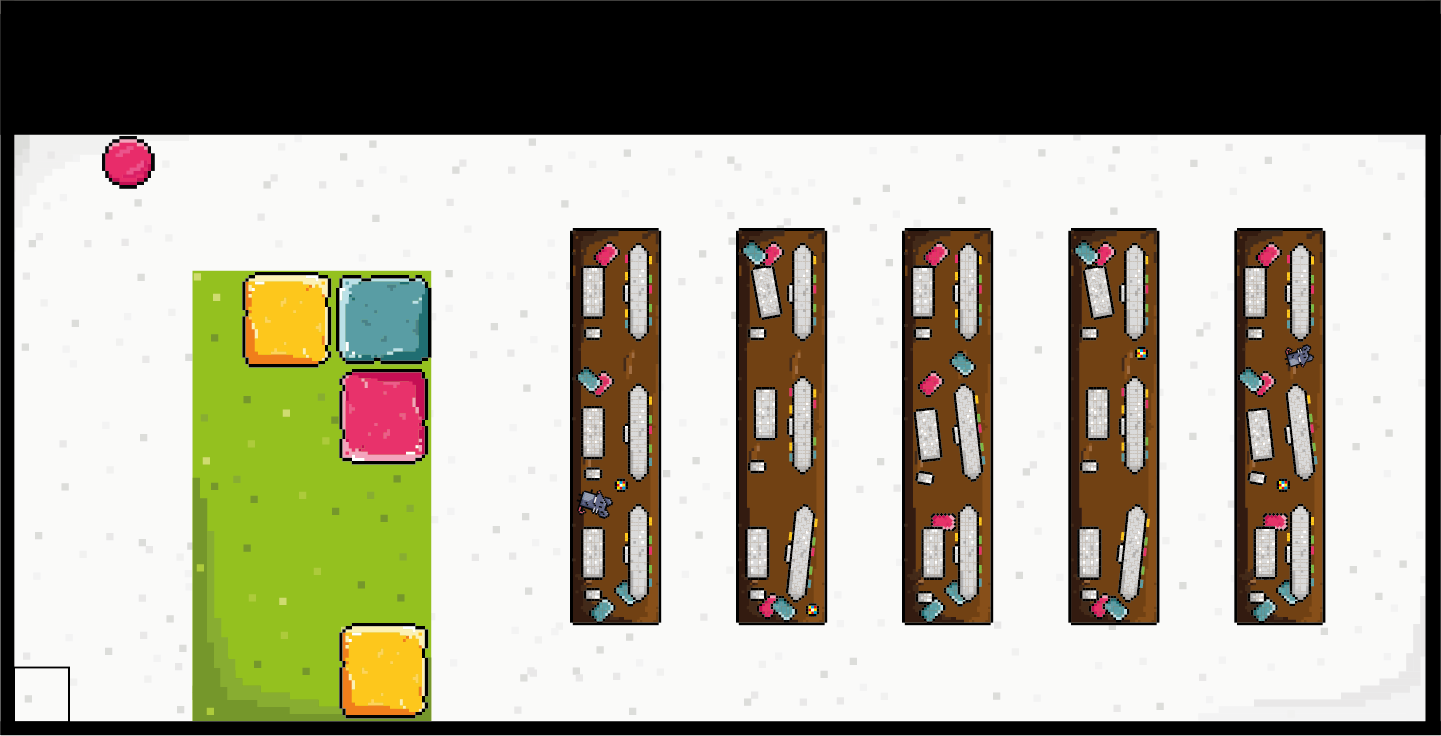
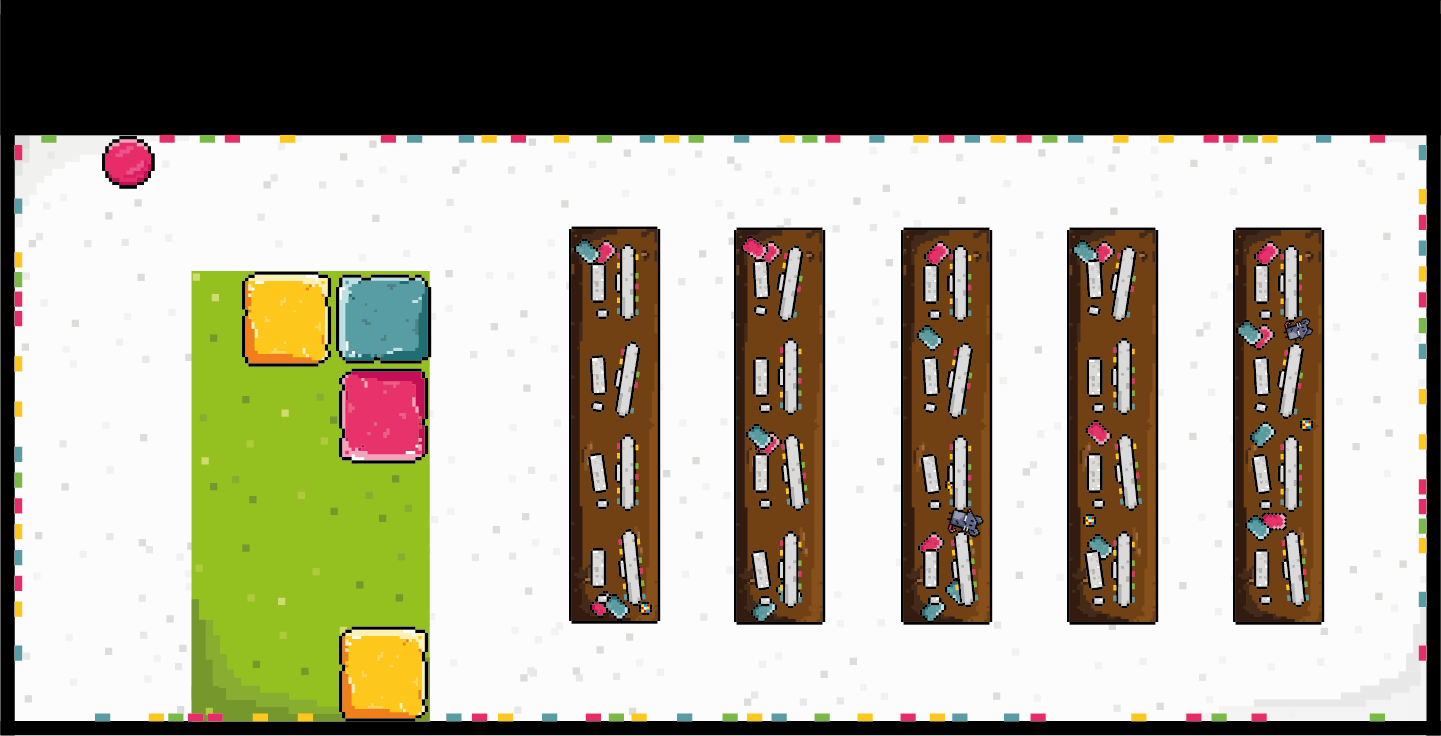
its working 🥳

diff --git a/ProjectFolder/src/org/academiadecodigo/bootcamp/project/game/Game.java b/ProjectFolder/src/org/academiadecodigo/bootcamp/project/game/Game.java
@@ -1,0 +1,73 @@
+package org.academiadecodigo.bootcamp.project.game;
+
+import org.academiadecodigo.bootcamp.project.characters.*;
+import org.academiadecodigo.bootcamp.project.map.Base;
+import org.academiadecodigo.bootcamp.project.map.Map;
+
+public class Game {
+    public static boolean isRunning = false;
+
+    public static void main(String[] args) throws InterruptedException {
+        Map map = new Base();
+        isRunning = true;
+        int random = Randomizer.getRandomRange(0, 3);
+        Characters player;
+        Game game = new Game();
+        Score score = new Score();
+
+        switch (random){
+            case 0:
+                player = new Rodrigo42(map);
+                break;
+            case 2:
+                player = new Mike42(map);
+                break;
+            default:
+                player = new Teresa42(map);
+        }
+        AcademiaDeCodigo[] academiaDeCodigo= new AcademiaDeCodigo[10];
+        academiaDeCodigo[0] = new Gabi(map);
+        academiaDeCodigo[1] = new Bri(map);
+        academiaDeCodigo[2] = new Gee(map);
+        academiaDeCodigo[3] = new Fanuca(map);
+        academiaDeCodigo[4] = new Cat(map);
+        academiaDeCodigo[5] = new Miguel(map);
+        academiaDeCodigo[6] = new Zuca(map);
+        academiaDeCodigo[7] = new Diogo(map);
+        academiaDeCodigo[8] = new Pedro(map);
+        academiaDeCodigo[9] = new Mariana(map);
+
+        for (AcademiaDeCodigo character: academiaDeCodigo) {
+            character.move();
+        }
+
+        while (isRunning){
+            System.out.println(game.isTouchingAc(academiaDeCodigo, player));
+            if (game.isTouchingAc(academiaDeCodigo, player)){
+                Game.isRunning = false;
+                score.save();
+            }
+        }
+
+    }
+
+    public boolean isTouchingAc(AcademiaDeCodigo[] characters, Characters player){
+        for(AcademiaDeCodigo character : characters){
+            int lx_c = character.getPic().getX();
+            int rx_c = character.getPic().getMaxX();
+            int ty_c = character.getPic().getY();
+            int by_c = character.getPic().getMaxY();
+            int lx_p = player.getPic().getX();
+            int rx_p = player.getPic().getMaxX();
+            int ty_p = player.getPic().getY();
+            int by_p = player.getPic().getMaxY();
+
+            if((rx_p > lx_c && rx_p < rx_c && (ty_p > ty_c && ty_p < by_c || by_p > ty_c && by_p < by_c)) ||
+                    (lx_p < rx_c && lx_p > lx_c && (ty_p > ty_c && ty_p < by_c || by_p > ty_c && by_p < by_c))){
+                return true;
+            }
+
+        }
+        return false;
+    }
+}

diff --git a/ProjectFolder/src/org/academiadecodigo/bootcamp/project/game/Score.java b/ProjectFolder/src/org/academiadecodigo/bootcamp/project/game/Score.java
@@ -1,0 +1,72 @@
+package org.academiadecodigo.bootcamp.project.game;
+
+import org.academiadecodigo.simplegraphics.graphics.Color;
+import org.academiadecodigo.simplegraphics.graphics.Text;
+
+import java.io.*;
+
+public class Score {
+
+    private String highScore;
+
+    private int score;
+
+    private BufferedReader br;
+
+    private BufferedWriter bw;
+
+    private FileReader in;
+
+    private Text text;
+
+    private Text text2;
+
+    public Score() {
+        score = 1;
+        text2 = new Text(400, 50, String.valueOf(score));
+        text2.setColor(Color.WHITE);
+        text2.grow(8, 8);
+        text2.draw();
+        try {
+            in = new FileReader("./resources/high_score.txt");
+            br = new BufferedReader(in);
+            read();
+        } catch (IOException e) {
+            throw new RuntimeException(e);
+        }
+        Thread thread = new Thread(() -> {
+            while (Game.isRunning) {
+                score++;
+                text2.setText(String.valueOf(score));
+                text2.draw();
+                try {
+                    Thread.sleep(500);
+                } catch (InterruptedException e) {
+                    throw new RuntimeException(e);
+                }
+            }
+        });
+        thread.start();
+    }
+
+    public void save() {
+        if (score <= Integer.parseInt(highScore)){
+            return;
+        }
+        try {
+            bw  = new BufferedWriter(new FileWriter("./resources/high_score.txt"));
+            bw.write(String.valueOf(score));
+            bw.close();
+        } catch (IOException e) {
+            throw new RuntimeException(e);
+        }
+    }
+
+    private void read() throws IOException {
+        highScore = br.readLine();
+        text = new Text(720, 50, "HighScore: " + highScore);
+        text.setColor(Color.WHITE);
+        text.draw();
+        text.grow(50, 20);
+    }
+}

diff --git a/ProjectFolder/src/org/academiadecodigo/bootcamp/project/characters/QuarentaEDois.java b/ProjectFolder/src/org/academiadecodigo/bootcamp/project/characters/QuarentaEDois.java
@@ -1,6 +1,7 @@
 package org.academiadecodigo.bootcamp.project.characters;
 
 import org.academiadecodigo.bootcamp.project.directions.MoveDirections;
+import org.academiadecodigo.bootcamp.project.game.Game;
 import org.academiadecodigo.bootcamp.project.map.Map;
 import org.academiadecodigo.simplegraphics.keyboard.Keyboard;
 import org.academiadecodigo.simplegraphics.keyboard.KeyboardEvent;
@@ -11,8 +12,8 @@ import org.academiadecodigo.simplegraphics.pictures.Picture;
 abstract public class QuarentaEDois extends Characters implements KeyboardHandler {
 
     private Keyboard keyboard;
-    public QuarentaEDois(String pathLeft, String pathRight, Picture pic, int speed, Map level, boolean isAc) {
-        super(pathLeft, pathRight, pic, speed, level, isAc);
+    public QuarentaEDois(String pathLeft, String pathRight, Picture pic, int speed, Map level) {
+        super(pathLeft, pathRight, pic, speed, level);
         this.keyboard = new Keyboard(this);
         initKeyboard();
     }
@@ -41,13 +42,13 @@ abstract public class QuarentaEDois extends Characters implements KeyboardHandle
     }
 
     private void move(KeyboardEvent keyboardEvent) {
-        if (keyboardEvent.getKey() == KeyboardEvent.KEY_RIGHT){
+        if (keyboardEvent.getKey() == KeyboardEvent.KEY_RIGHT && Game.isRunning){
             move(MoveDirections.RIGHT);
-        } else if (keyboardEvent.getKey() == KeyboardEvent.KEY_LEFT) {
+        } else if (keyboardEvent.getKey() == KeyboardEvent.KEY_LEFT && Game.isRunning) {
             move(MoveDirections.LEFT);
-        } else if (keyboardEvent.getKey() == KeyboardEvent.KEY_UP) {
+        } else if (keyboardEvent.getKey() == KeyboardEvent.KEY_UP && Game.isRunning) {
             move(MoveDirections.UP);
-        } else {
+        } else if (keyboardEvent.getKey() == KeyboardEvent.KEY_DOWN && Game.isRunning) {
             move(MoveDirections.DOWN);
         }
     }

diff --git a/ProjectFolder/src/org/academiadecodigo/bootcamp/project/characters/AcademiaDeCodigo.java b/ProjectFolder/src/org/academiadecodigo/bootcamp/project/characters/AcademiaDeCodigo.java
@@ -1,19 +1,20 @@
 package org.academiadecodigo.bootcamp.project.characters;
 
+import org.academiadecodigo.bootcamp.project.game.Game;
 import org.academiadecodigo.bootcamp.project.game.Randomizer;
 import org.academiadecodigo.bootcamp.project.map.Map;
 import org.academiadecodigo.simplegraphics.pictures.Picture;
 
 public class AcademiaDeCodigo extends Characters {
 
-    public AcademiaDeCodigo(String pathLeft, String pathRight, Picture pic, int speed, Map level, boolean isAc) throws InterruptedException {
-        super(pathLeft, pathRight, pic, speed, level, isAc);
+    public AcademiaDeCodigo(String pathLeft, String pathRight, Picture pic, int speed, Map level) throws InterruptedException {
+        super(pathLeft, pathRight, pic, speed, level);
     }
 
     public void move() {
 
         Thread tr = new Thread(() -> {
-            while (true){
+            while (Game.isRunning){
                 int random = Randomizer.getRandomRange(1, 40);
                 if(random > 0 && random < 11){
                     while(Randomizer.getRandomRange(1, 10) < 8){

diff --git a/ProjectFolder/src/org/academiadecodigo/bootcamp/project/characters/Characters.java b/ProjectFolder/src/org/academiadecodigo/bootcamp/project/characters/Characters.java
@@ -14,18 +14,15 @@ abstract public class Characters {
     private int speed;
     private Map level;
 
-    private boolean isAc;
+    //private Tables tables;
 
-    private Tables tables;
-
-    public Characters(String pathLeft, String pathRight, Picture pic, int speed, Map level, boolean isAc){
+    public Characters(String pathLeft, String pathRight, Picture pic, int speed, Map level){
         this.pathLeft = pathLeft;
         this.pathRight = pathRight;
         this.pic = pic;
         this.level = level;
         this.speed = speed;
         //this.tables = new Tables();
-        this.isAc = isAc;
         pic.draw();
     }
 

diff --git a/ProjectFolder/src/org/academiadecodigo/bootcamp/project/characters/Mariana.java b/ProjectFolder/src/org/academiadecodigo/bootcamp/project/characters/Mariana.java
@@ -8,6 +8,6 @@ public class Mariana extends AcademiaDeCodigo {
     public Mariana(Map level) throws InterruptedException {
         super("./pics/characters/marianaLeft.png", "./pics/characters/marianaRight.png",
                 new Picture(Randomizer.getRandomRange(14, 1426), Randomizer.getRandomRange(135, level.getBackground().getHeight() - 14),
-                        "./pics/characters/marianaRight.png"), 20, level, true);
+                        "./pics/characters/marianaRight.png"), 20, level);
     }
 }

diff --git a/ProjectFolder/src/org/academiadecodigo/bootcamp/project/characters/Rodrigo.java b/ProjectFolder/src/org/academiadecodigo/bootcamp/project/characters/Rodrigo.java
@@ -8,6 +8,6 @@ public class Rodrigo extends AcademiaDeCodigo {
     public Rodrigo(Map level) throws InterruptedException {
         super("./pics/characters/rodrigoLeft.png", "./pics/characters/rodrigoRight.png",
                 new Picture(Randomizer.getRandomRange(14, 1426), Randomizer.getRandomRange(135, level.getBackground().getHeight() - 14),
-                        "./pics/characters/rodrigoRight.png"), 20, level, true);
+                        "./pics/characters/rodrigoRight.png"), 20, level);
     }
 }

diff --git a/ProjectFolder/src/org/academiadecodigo/bootcamp/project/characters/Fanuca.java b/ProjectFolder/src/org/academiadecodigo/bootcamp/project/characters/Fanuca.java
@@ -8,6 +8,6 @@ public class Fanuca extends AcademiaDeCodigo {
     public Fanuca (Map level) throws InterruptedException {
         super("./pics/characters/fanucaLeft.png", "./pics/characters/fanucaRight.png",
                 new Picture(Randomizer.getRandomRange(14, 1426), Randomizer.getRandomRange(135, level.getBackground().getHeight() - 14),
-                        "./pics/characters/fanucaRight.png"), 20, level, true);
+                        "./pics/characters/fanucaRight.png"), 20, level);
     }
 }

diff --git a/ProjectFolder/src/org/academiadecodigo/bootcamp/project/characters/Miguel.java b/ProjectFolder/src/org/academiadecodigo/bootcamp/project/characters/Miguel.java
@@ -8,6 +8,6 @@ public class Miguel extends AcademiaDeCodigo{
     public Miguel(Map level) throws InterruptedException {
         super("./pics/characters/miguelLeft.png", "./pics/characters/miguelRight.png",
                 new Picture(Randomizer.getRandomRange(14, 1426), Randomizer.getRandomRange(135, level.getBackground().getHeight() - 14),
-                        "./pics/characters/miguelRight.png"), 20, level, true);
+                        "./pics/characters/miguelRight.png"), 20, level);
     }
 }

diff --git a/ProjectFolder/src/org/academiadecodigo/bootcamp/project/characters/Pedro.java b/ProjectFolder/src/org/academiadecodigo/bootcamp/project/characters/Pedro.java
@@ -8,6 +8,6 @@ public class Pedro extends AcademiaDeCodigo {
     public Pedro (Map level) throws InterruptedException {
         super("./pics/characters/pedroLeft.png", "./pics/characters/pedroRight.png",
                 new Picture(Randomizer.getRandomRange(14, 1426), Randomizer.getRandomRange(135, level.getBackground().getHeight() - 14),
-                        "./pics/characters/pedroRight.png"), 20, level, true);
+                        "./pics/characters/pedroRight.png"), 20, level);
     }
 }

diff --git a/ProjectFolder/src/org/academiadecodigo/bootcamp/project/characters/Diogo.java b/ProjectFolder/src/org/academiadecodigo/bootcamp/project/characters/Diogo.java
@@ -8,6 +8,6 @@ public class Diogo extends AcademiaDeCodigo{
     public Diogo(Map level) throws InterruptedException {
         super("./pics/characters/diogoLeft.png", "./pics/characters/diogoRight.png",
                 new Picture(Randomizer.getRandomRange(14, 1426), Randomizer.getRandomRange(135, level.getBackground().getHeight() - 14),
-                        "./pics/characters/diogoRight.png"), 20, level, true);
+                        "./pics/characters/diogoRight.png"), 20, level);
     }
 }

diff --git a/ProjectFolder/src/org/academiadecodigo/bootcamp/project/characters/Gabi.java b/ProjectFolder/src/org/academiadecodigo/bootcamp/project/characters/Gabi.java
@@ -8,6 +8,6 @@ public class Gabi extends AcademiaDeCodigo {
     public Gabi (Map level) throws InterruptedException {
         super("./pics/characters/gabiLeft.png", "./pics/characters/gabiRight.png",
                 new Picture(Randomizer.getRandomRange(14, 1426), Randomizer.getRandomRange(135, level.getBackground().getHeight() - 14),
-                        "./pics/characters/gabiRight.png"), 20, level, true);
+                        "./pics/characters/gabiRight.png"), 20, level);
     }
 }
